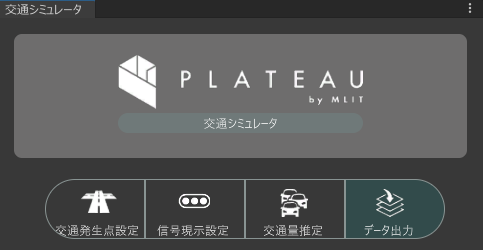
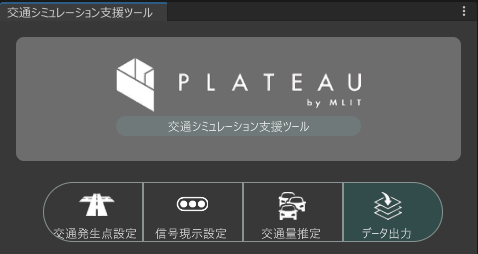
deploy: 04d248e1d8f334394f648e2e54db0ad26f67947f

diff --git a/index.html b/index.html
@@ -5,9 +5,9 @@
   <head>
     <meta charset="utf-8">
     <meta http-equiv="X-UA-Compatible" content="IE=edge,chrome=1">
-    <title>PLATEAU&#20132;&#36890;&#12471;&#12511;&#12517;&#12524;&#12540;&#12479; | PLATEAU&#20132;&#36890;&#12471;&#12511;&#12517;&#12524;&#12540;&#12479; </title>
+    <title>&#20132;&#36890;&#12471;&#12511;&#12517;&#12524;&#12540;&#12471;&#12519;&#12531;&#25903;&#25588;&#12484;&#12540;&#12523; | &#20132;&#36890;&#12471;&#12511;&#12517;&#12524;&#12540;&#12471;&#12519;&#12531;&#25903;&#25588;&#12484;&#12540;&#12523; </title>
     <meta name="viewport" content="width=device-width">
-    <meta name="title" content="PLATEAU&#20132;&#36890;&#12471;&#12511;&#12517;&#12524;&#12540;&#12479; | PLATEAU&#20132;&#36890;&#12471;&#12511;&#12517;&#12524;&#12540;&#12479; ">
+    <meta name="title" content="&#20132;&#36890;&#12471;&#12511;&#12517;&#12524;&#12540;&#12471;&#12519;&#12531;&#25903;&#25588;&#12484;&#12540;&#12523; | &#20132;&#36890;&#12471;&#12511;&#12517;&#12524;&#12540;&#12471;&#12519;&#12531;&#25903;&#25588;&#12484;&#12540;&#12523; ">
     <meta name="generator" content="docfx 2.59.4.0">
     
     <link rel="shortcut icon" href="favicon.ico">
@@ -77,10 +77,10 @@
         <div class="article row grid-right">
           <div class="col-md-10">
             <article class="content wrap" id="_content" data-uid="">
-<h1 id="plateau交通シミュレータ">PLATEAU交通シミュレータ</h1>
+<h1 id="交通シミュレーション支援ツール">交通シミュレーション支援ツール</h1>
 
 <p><img src="resources/BasicOperation/Play.png" alt="可視化画面"></p>
-<p>PLATEAU交通シミュレータは、3D都市モデルおよび交通関連の各種オープンデータを活用し、
+<p>交通シミュレーション支援ツールは、3D都市モデルおよび交通関連の各種オープンデータを活用し、
 大規模商業施設の開発などによって生じる周辺道路への交通影響を、簡易かつ効率的に設定・予測・可視化するためのソフトウェアです。</p>
 <p>具体的には、3D都市モデルを用いた道路ネットワーク生成機能、交通発生点の設定機能、OD交通量（Origin-Destination）の推定機能、開発交通量の推定機能などを備え、これらを統合してシミュレーションデータを生成するUIと、シミュレーション結果を3Dで可視化する表示機能を組み合わせて提供します。</p>
 <p>本プロジェクトではデータの自動化とシミュレーションとの連携を推進することで、交通分野におけるデジタルツイン技術の普及と、社会的意思決定の高度化に貢献することを目指しています。</p>

diff --git a/manual/ZoneSetting.html b/manual/ZoneSetting.html
@@ -5,9 +5,9 @@
   <head>
     <meta charset="utf-8">
     <meta http-equiv="X-UA-Compatible" content="IE=edge,chrome=1">
-    <title>&#20132;&#36890;&#38598;&#20013;&#30330;&#29983;&#28857;&#35373;&#23450;&#27231;&#33021; | PLATEAU&#20132;&#36890;&#12471;&#12511;&#12517;&#12524;&#12540;&#12479; </title>
+    <title>&#20132;&#36890;&#38598;&#20013;&#30330;&#29983;&#28857;&#35373;&#23450;&#27231;&#33021; | &#20132;&#36890;&#12471;&#12511;&#12517;&#12524;&#12540;&#12471;&#12519;&#12531;&#25903;&#25588;&#12484;&#12540;&#12523; </title>
     <meta name="viewport" content="width=device-width">
-    <meta name="title" content="&#20132;&#36890;&#38598;&#20013;&#30330;&#29983;&#28857;&#35373;&#23450;&#27231;&#33021; | PLATEAU&#20132;&#36890;&#12471;&#12511;&#12517;&#12524;&#12540;&#12479; ">
+    <meta name="title" content="&#20132;&#36890;&#38598;&#20013;&#30330;&#29983;&#28857;&#35373;&#23450;&#27231;&#33021; | &#20132;&#36890;&#12471;&#12511;&#12517;&#12524;&#12540;&#12471;&#12519;&#12531;&#25903;&#25588;&#12484;&#12540;&#12523; ">
     <meta name="generator" content="docfx 2.59.4.0">
     
     <link rel="shortcut icon" href="../favicon.ico">
@@ -84,7 +84,7 @@
 <p><img src="../resources/ZoneSetting/MenuTab.png" alt="交通集中発生点設定タブ"></p>
 <h2 id="事前準備">事前準備</h2>
 <p>PLATEAU SDK for Unity により都市モデルをインポートし、道路ネットワークの生成・整備を行っておく必要があります。</p>
-<p>Unityのメニューバーから<code>PLATEAU</code>-<code>交通シミュレータ</code>を選択し<code>交通シミュレータ</code>ウィンドウを開き<code>交通集中発生点設定</code>タブを選択します。</p>
+<p>Unityのメニューバーから<code>PLATEAU</code>-<code>交通シミュレーション支援ツール</code>を選択し<code>交通シミュレーション支援ツール</code>ウィンドウを開き<code>交通集中発生点設定</code>タブを選択します。</p>
 <h2 id="利用手順">利用手順</h2>
 <h3 id="ゾーンの生成">ゾーンの生成</h3>
 <p><code>自動生成</code>をクリックする、おおまかな街区ごとにゾーンと道路ネットワーク端部の交通集中発生点を自動で生成できます。</p>

diff --git a/manual/Setup.html b/manual/Setup.html
@@ -5,9 +5,9 @@
   <head>
     <meta charset="utf-8">
     <meta http-equiv="X-UA-Compatible" content="IE=edge,chrome=1">
-    <title>&#12475;&#12483;&#12488;&#12450;&#12483;&#12503;&#12398;&#25163;&#38918; | PLATEAU&#20132;&#36890;&#12471;&#12511;&#12517;&#12524;&#12540;&#12479; </title>
+    <title>&#12475;&#12483;&#12488;&#12450;&#12483;&#12503;&#12398;&#25163;&#38918; | &#20132;&#36890;&#12471;&#12511;&#12517;&#12524;&#12540;&#12471;&#12519;&#12531;&#25903;&#25588;&#12484;&#12540;&#12523; </title>
     <meta name="viewport" content="width=device-width">
-    <meta name="title" content="&#12475;&#12483;&#12488;&#12450;&#12483;&#12503;&#12398;&#25163;&#38918; | PLATEAU&#20132;&#36890;&#12471;&#12511;&#12517;&#12524;&#12540;&#12479; ">
+    <meta name="title" content="&#12475;&#12483;&#12488;&#12450;&#12483;&#12503;&#12398;&#25163;&#38918; | &#20132;&#36890;&#12471;&#12511;&#12517;&#12524;&#12540;&#12471;&#12519;&#12531;&#25903;&#25588;&#12484;&#12540;&#12523; ">
     <meta name="generator" content="docfx 2.59.4.0">
     
     <link rel="shortcut icon" href="../favicon.ico">
@@ -107,7 +107,7 @@
 <li>Unityが起動したら、以下の各ツールのリリースページからtgzファイルをダウンロードします。<ul>
 <li><a href="https://github.com/Project-PLATEAU/PLATEAU-SDK-for-Unity/releases">PLATEAU SDK for Unityのリリースページ</a></li>
 <li><a href="https://github.com/Project-PLATEAU/PLATEAU-SDK-Toolkits-for-Unity/releases">PLATEAU-SDK-Toolkits-for-Unityのリリースページ</a></li>
-<li><a href="https://github.com/Project-PLATEAU/Data-Preparation-Tool-for-TrafficSim/releases">交通シミュレータのリリースページ</a></li>
+<li><a href="https://github.com/Project-PLATEAU/Data-Preparation-Tool-for-TrafficSim/releases">交通シミュレーション支援ツールのリリースページ</a></li>
 </ul>
 </li>
 </ul>

diff --git a/manual/CurrentEstimation.html b/manual/CurrentEstimation.html
@@ -5,9 +5,9 @@
   <head>
     <meta charset="utf-8">
     <meta http-equiv="X-UA-Compatible" content="IE=edge,chrome=1">
-    <title>&#12456;&#12522;&#12450;&#20869;&#26082;&#23384;OD&#20132;&#36890;&#37327;&#25512;&#23450; | PLATEAU&#20132;&#36890;&#12471;&#12511;&#12517;&#12524;&#12540;&#12479; </title>
+    <title>&#12456;&#12522;&#12450;&#20869;&#26082;&#23384;OD&#20132;&#36890;&#37327;&#25512;&#23450; | &#20132;&#36890;&#12471;&#12511;&#12517;&#12524;&#12540;&#12471;&#12519;&#12531;&#25903;&#25588;&#12484;&#12540;&#12523; </title>
     <meta name="viewport" content="width=device-width">
-    <meta name="title" content="&#12456;&#12522;&#12450;&#20869;&#26082;&#23384;OD&#20132;&#36890;&#37327;&#25512;&#23450; | PLATEAU&#20132;&#36890;&#12471;&#12511;&#12517;&#12524;&#12540;&#12479; ">
+    <meta name="title" content="&#12456;&#12522;&#12450;&#20869;&#26082;&#23384;OD&#20132;&#36890;&#37327;&#25512;&#23450; | &#20132;&#36890;&#12471;&#12511;&#12517;&#12524;&#12540;&#12471;&#12519;&#12531;&#25903;&#25588;&#12484;&#12540;&#12523; ">
     <meta name="generator" content="docfx 2.59.4.0">
     
     <link rel="shortcut icon" href="../favicon.ico">

diff --git a/manual/DevelopEstimation.html b/manual/DevelopEstimation.html
@@ -5,9 +5,9 @@
   <head>
     <meta charset="utf-8">
     <meta http-equiv="X-UA-Compatible" content="IE=edge,chrome=1">
-    <title>&#38283;&#30330;&#20132;&#36890;&#37327;&#25512;&#23450; | PLATEAU&#20132;&#36890;&#12471;&#12511;&#12517;&#12524;&#12540;&#12479; </title>
+    <title>&#38283;&#30330;&#20132;&#36890;&#37327;&#25512;&#23450; | &#20132;&#36890;&#12471;&#12511;&#12517;&#12524;&#12540;&#12471;&#12519;&#12531;&#25903;&#25588;&#12484;&#12540;&#12523; </title>
     <meta name="viewport" content="width=device-width">
-    <meta name="title" content="&#38283;&#30330;&#20132;&#36890;&#37327;&#25512;&#23450; | PLATEAU&#20132;&#36890;&#12471;&#12511;&#12517;&#12524;&#12540;&#12479; ">
+    <meta name="title" content="&#38283;&#30330;&#20132;&#36890;&#37327;&#25512;&#23450; | &#20132;&#36890;&#12471;&#12511;&#12517;&#12524;&#12540;&#12471;&#12519;&#12531;&#25903;&#25588;&#12484;&#12540;&#12523; ">
     <meta name="generator" content="docfx 2.59.4.0">
     
     <link rel="shortcut icon" href="../favicon.ico">

diff --git a/manual/SignalSetting.html b/manual/SignalSetting.html
@@ -5,9 +5,9 @@
   <head>
     <meta charset="utf-8">
     <meta http-equiv="X-UA-Compatible" content="IE=edge,chrome=1">
-    <title>&#20449;&#21495;&#29694;&#31034;&#35373;&#23450; | PLATEAU&#20132;&#36890;&#12471;&#12511;&#12517;&#12524;&#12540;&#12479; </title>
+    <title>&#20449;&#21495;&#29694;&#31034;&#35373;&#23450; | &#20132;&#36890;&#12471;&#12511;&#12517;&#12524;&#12540;&#12471;&#12519;&#12531;&#25903;&#25588;&#12484;&#12540;&#12523; </title>
     <meta name="viewport" content="width=device-width">
-    <meta name="title" content="&#20449;&#21495;&#29694;&#31034;&#35373;&#23450; | PLATEAU&#20132;&#36890;&#12471;&#12511;&#12517;&#12524;&#12540;&#12479; ">
+    <meta name="title" content="&#20449;&#21495;&#29694;&#31034;&#35373;&#23450; | &#20132;&#36890;&#12471;&#12511;&#12517;&#12524;&#12540;&#12471;&#12519;&#12531;&#25903;&#25588;&#12484;&#12540;&#12523; ">
     <meta name="generator" content="docfx 2.59.4.0">
     
     <link rel="shortcut icon" href="../favicon.ico">

diff --git a/manual/Export.html b/manual/Export.html
@@ -5,9 +5,9 @@
   <head>
     <meta charset="utf-8">
     <meta http-equiv="X-UA-Compatible" content="IE=edge,chrome=1">
-    <title>&#12487;&#12540;&#12479;&#20986;&#21147; | PLATEAU&#20132;&#36890;&#12471;&#12511;&#12517;&#12524;&#12540;&#12479; </title>
+    <title>&#12487;&#12540;&#12479;&#20986;&#21147; | &#20132;&#36890;&#12471;&#12511;&#12517;&#12524;&#12540;&#12471;&#12519;&#12531;&#25903;&#25588;&#12484;&#12540;&#12523; </title>
     <meta name="viewport" content="width=device-width">
-    <meta name="title" content="&#12487;&#12540;&#12479;&#20986;&#21147; | PLATEAU&#20132;&#36890;&#12471;&#12511;&#12517;&#12524;&#12540;&#12479; ">
+    <meta name="title" content="&#12487;&#12540;&#12479;&#20986;&#21147; | &#20132;&#36890;&#12471;&#12511;&#12517;&#12524;&#12540;&#12471;&#12519;&#12531;&#25903;&#25588;&#12484;&#12540;&#12523; ">
     <meta name="generator" content="docfx 2.59.4.0">
     
     <link rel="shortcut icon" href="../favicon.ico">

diff --git a/manual/BasicOperation.html b/manual/BasicOperation.html
@@ -5,9 +5,9 @@
   <head>
     <meta charset="utf-8">
     <meta http-equiv="X-UA-Compatible" content="IE=edge,chrome=1">
-    <title>&#22522;&#26412;&#25805;&#20316; | PLATEAU&#20132;&#36890;&#12471;&#12511;&#12517;&#12524;&#12540;&#12479; </title>
+    <title>&#22522;&#26412;&#25805;&#20316; | &#20132;&#36890;&#12471;&#12511;&#12517;&#12524;&#12540;&#12471;&#12519;&#12531;&#25903;&#25588;&#12484;&#12540;&#12523; </title>
     <meta name="viewport" content="width=device-width">
-    <meta name="title" content="&#22522;&#26412;&#25805;&#20316; | PLATEAU&#20132;&#36890;&#12471;&#12511;&#12517;&#12524;&#12540;&#12479; ">
+    <meta name="title" content="&#22522;&#26412;&#25805;&#20316; | &#20132;&#36890;&#12471;&#12511;&#12517;&#12524;&#12540;&#12471;&#12519;&#12531;&#25903;&#25588;&#12484;&#12540;&#12523; ">
     <meta name="generator" content="docfx 2.59.4.0">
     
     <link rel="shortcut icon" href="../favicon.ico">

diff --git a/manual/toc.html b/manual/toc.html
@@ -13,7 +13,7 @@
           
           <ul class="nav level1">
                 <li>
-                    <a href="../index.html" name="" title="PLATEAU&#20132;&#36890;&#12471;&#12511;&#12517;&#12524;&#12540;&#12479;">PLATEAU&#20132;&#36890;&#12471;&#12511;&#12517;&#12524;&#12540;&#12479;</a>
+                    <a href="../index.html" name="" title="&#20132;&#36890;&#12471;&#12511;&#12517;&#12524;&#12540;&#12471;&#12519;&#12531;&#25903;&#25588;&#12484;&#12540;&#12523;">&#20132;&#36890;&#12471;&#12511;&#12517;&#12524;&#12540;&#12471;&#12519;&#12531;&#25903;&#25588;&#12484;&#12540;&#12523;</a>
                 </li>
                 <li>
                     <span class="expand-stub"></span>
